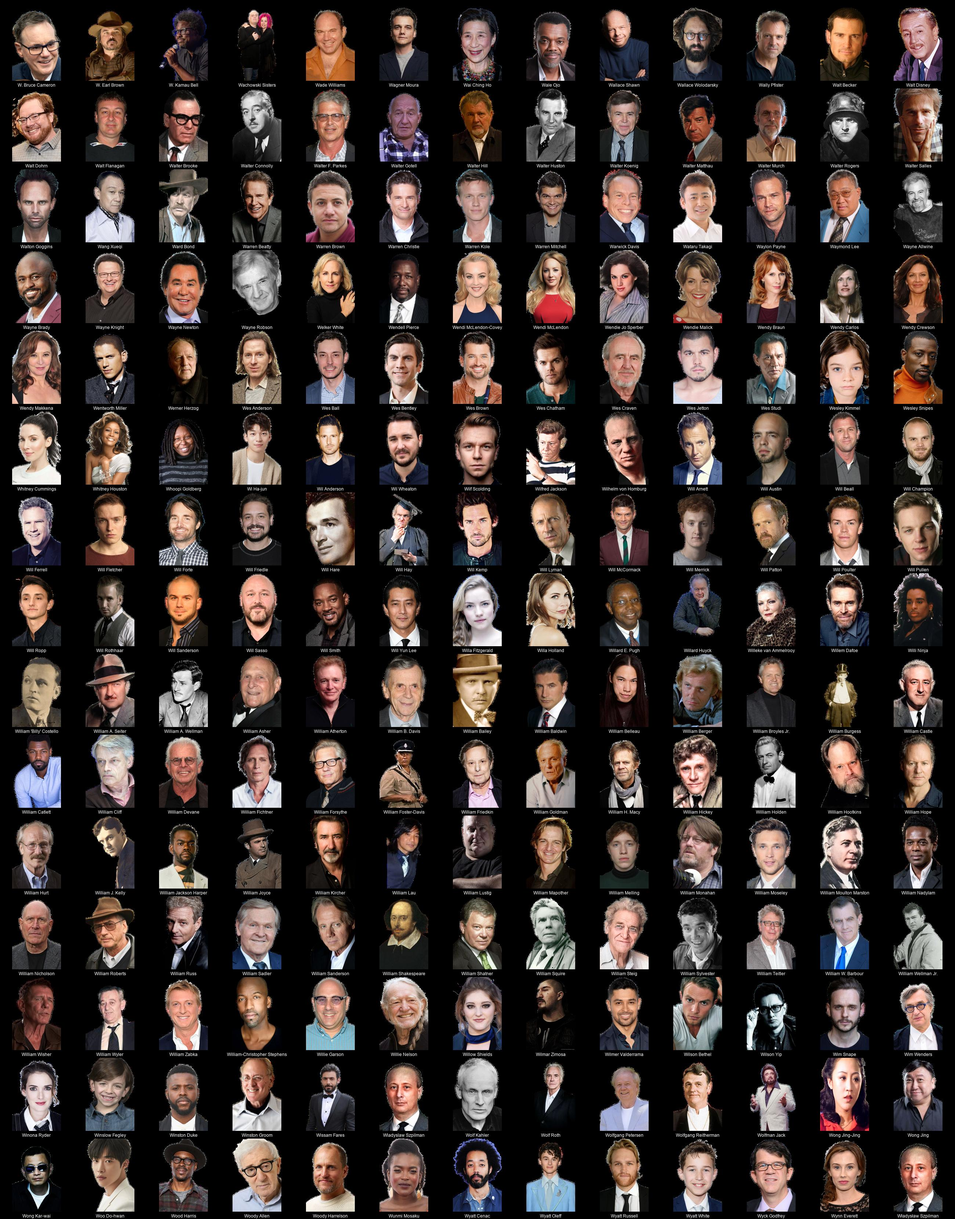
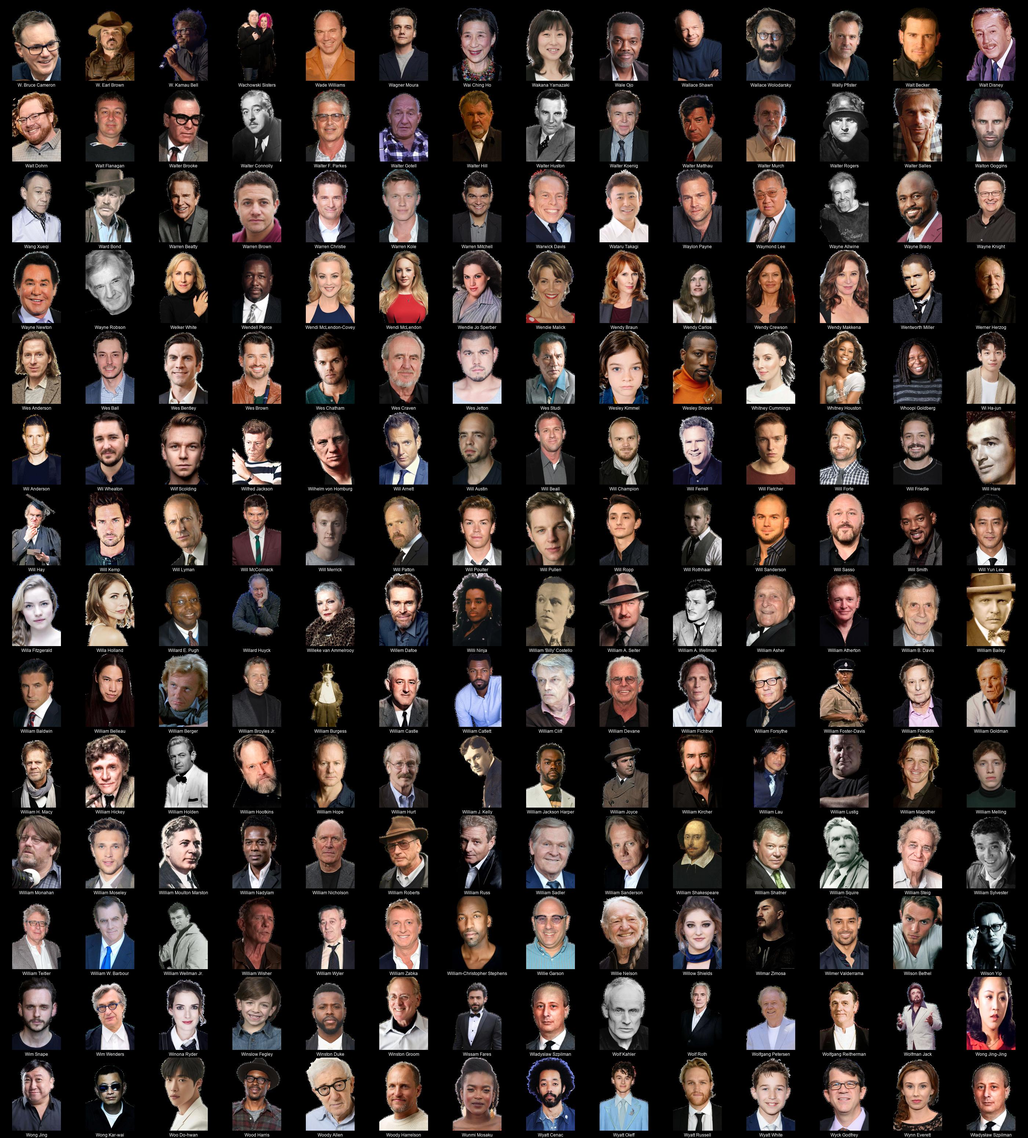
chore: sync posters & docs [transparent,diiivoycolor] — 2025-09-30 20:00

diff --git a/README.md b/README.md
@@ -1,4 +1,4 @@
-# Kometa People Images - Transparent (transparent) (11175 Images)
+# Kometa People Images - Transparent (transparent) (11177 Images)
 
 <details><summary><a href="'">' (1 Images)</a></summary>
 
@@ -6757,7 +6757,7 @@
 * [Léa Seydoux](https://raw.githubusercontent.com/kometa-team/People-Images-transparent/master/L/Images/L%C3%A9a%20Seydoux.png)
 * [Lúcio Andrey](https://raw.githubusercontent.com/kometa-team/People-Images-transparent/master/L/Images/L%C3%BAcio%20Andrey.png)
 </details>
-<details><summary><a href="M">M (1047 Images)</a></summary>
+<details><summary><a href="M">M (1048 Images)</a></summary>
 
 * [M'laah Kaur Singh](https://raw.githubusercontent.com/kometa-team/People-Images-transparent/master/M/Images/M%27laah%20Kaur%20Singh.png)
 * [M. Emmet Walsh](https://raw.githubusercontent.com/kometa-team/People-Images-transparent/master/M/Images/M.%20Emmet%20Walsh.png)
@@ -7673,6 +7673,7 @@
 * [Mikhail Gorevoy](https://raw.githubusercontent.com/kometa-team/People-Images-transparent/master/M/Images/Mikhail%20Gorevoy.png)
 * [Miki Esparbé](https://raw.githubusercontent.com/kometa-team/People-Images-transparent/master/M/Images/Miki%20Esparb%C3%A9.png)
 * [Miki Manojlović](https://raw.githubusercontent.com/kometa-team/People-Images-transparent/master/M/Images/Miki%20Manojlovi%C4%87.png)
+* [Mikio Naruse](https://raw.githubusercontent.com/kometa-team/People-Images-transparent/master/M/Images/Mikio%20Naruse.png)
 * [Mikkel Boe Følsgaard](https://raw.githubusercontent.com/kometa-team/People-Images-transparent/master/M/Images/Mikkel%20Boe%20F%C3%B8lsgaard.png)
 * [Mila Kunis](https://raw.githubusercontent.com/kometa-team/People-Images-transparent/master/M/Images/Mila%20Kunis.png)
 * [Milena Vukotić](https://raw.githubusercontent.com/kometa-team/People-Images-transparent/master/M/Images/Milena%20Vukoti%C4%87.png)
@@ -10879,7 +10880,7 @@
 * [Von Lewis](https://raw.githubusercontent.com/kometa-team/People-Images-transparent/master/V/Images/Von%20Lewis.png)
 * [Věra Chytilová](https://raw.githubusercontent.com/kometa-team/People-Images-transparent/master/V/Images/V%C4%9Bra%20Chytilov%C3%A1.png)
 </details>
-<details><summary><a href="W">W (195 Images)</a></summary>
+<details><summary><a href="W">W (196 Images)</a></summary>
 
 * [W. Bruce Cameron](https://raw.githubusercontent.com/kometa-team/People-Images-transparent/master/W/Images/W.%20Bruce%20Cameron.png)
 * [W. Earl Brown](https://raw.githubusercontent.com/kometa-team/People-Images-transparent/master/W/Images/W.%20Earl%20Brown.png)
@@ -10888,6 +10889,7 @@
 * [Wade Williams](https://raw.githubusercontent.com/kometa-team/People-Images-transparent/master/W/Images/Wade%20Williams.png)
 * [Wagner Moura](https://raw.githubusercontent.com/kometa-team/People-Images-transparent/master/W/Images/Wagner%20Moura.png)
 * [Wai Ching Ho](https://raw.githubusercontent.com/kometa-team/People-Images-transparent/master/W/Images/Wai%20Ching%20Ho.png)
+* [Wakana Yamazaki](https://raw.githubusercontent.com/kometa-team/People-Images-transparent/master/W/Images/Wakana%20Yamazaki.png)
 * [Wale Ojo](https://raw.githubusercontent.com/kometa-team/People-Images-transparent/master/W/Images/Wale%20Ojo.png)
 * [Wallace Shawn](https://raw.githubusercontent.com/kometa-team/People-Images-transparent/master/W/Images/Wallace%20Shawn.png)
 * [Wallace Wolodarsky](https://raw.githubusercontent.com/kometa-team/People-Images-transparent/master/W/Images/Wallace%20Wolodarsky.png)

diff --git a/M/README.md b/M/README.md
@@ -1,4 +1,4 @@
-# Kometa People Images - Transparent (transparent) - M (1047 Images)
+# Kometa People Images - Transparent (transparent) - M (1048 Images)
 ![Grid](grid.jpg)
 
 * [M'laah Kaur Singh](https://raw.githubusercontent.com/kometa-team/People-Images-transparent/master/M/Images/M%27laah%20Kaur%20Singh.png)
@@ -915,6 +915,7 @@
 * [Mikhail Gorevoy](https://raw.githubusercontent.com/kometa-team/People-Images-transparent/master/M/Images/Mikhail%20Gorevoy.png)
 * [Miki Esparbé](https://raw.githubusercontent.com/kometa-team/People-Images-transparent/master/M/Images/Miki%20Esparb%C3%A9.png)
 * [Miki Manojlović](https://raw.githubusercontent.com/kometa-team/People-Images-transparent/master/M/Images/Miki%20Manojlovi%C4%87.png)
+* [Mikio Naruse](https://raw.githubusercontent.com/kometa-team/People-Images-transparent/master/M/Images/Mikio%20Naruse.png)
 * [Mikkel Boe Følsgaard](https://raw.githubusercontent.com/kometa-team/People-Images-transparent/master/M/Images/Mikkel%20Boe%20F%C3%B8lsgaard.png)
 * [Mila Kunis](https://raw.githubusercontent.com/kometa-team/People-Images-transparent/master/M/Images/Mila%20Kunis.png)
 * [Milena Vukotić](https://raw.githubusercontent.com/kometa-team/People-Images-transparent/master/M/Images/Milena%20Vukoti%C4%87.png)

diff --git a/W/README.md b/W/README.md
@@ -1,4 +1,4 @@
-# Kometa People Images - Transparent (transparent) - W (195 Images)
+# Kometa People Images - Transparent (transparent) - W (196 Images)
 ![Grid](grid.jpg)
 
 * [W. Bruce Cameron](https://raw.githubusercontent.com/kometa-team/People-Images-transparent/master/W/Images/W.%20Bruce%20Cameron.png)
@@ -8,6 +8,7 @@
 * [Wade Williams](https://raw.githubusercontent.com/kometa-team/People-Images-transparent/master/W/Images/Wade%20Williams.png)
 * [Wagner Moura](https://raw.githubusercontent.com/kometa-team/People-Images-transparent/master/W/Images/Wagner%20Moura.png)
 * [Wai Ching Ho](https://raw.githubusercontent.com/kometa-team/People-Images-transparent/master/W/Images/Wai%20Ching%20Ho.png)
+* [Wakana Yamazaki](https://raw.githubusercontent.com/kometa-team/People-Images-transparent/master/W/Images/Wakana%20Yamazaki.png)
 * [Wale Ojo](https://raw.githubusercontent.com/kometa-team/People-Images-transparent/master/W/Images/Wale%20Ojo.png)
 * [Wallace Shawn](https://raw.githubusercontent.com/kometa-team/People-Images-transparent/master/W/Images/Wallace%20Shawn.png)
 * [Wallace Wolodarsky](https://raw.githubusercontent.com/kometa-team/People-Images-transparent/master/W/Images/Wallace%20Wolodarsky.png)
